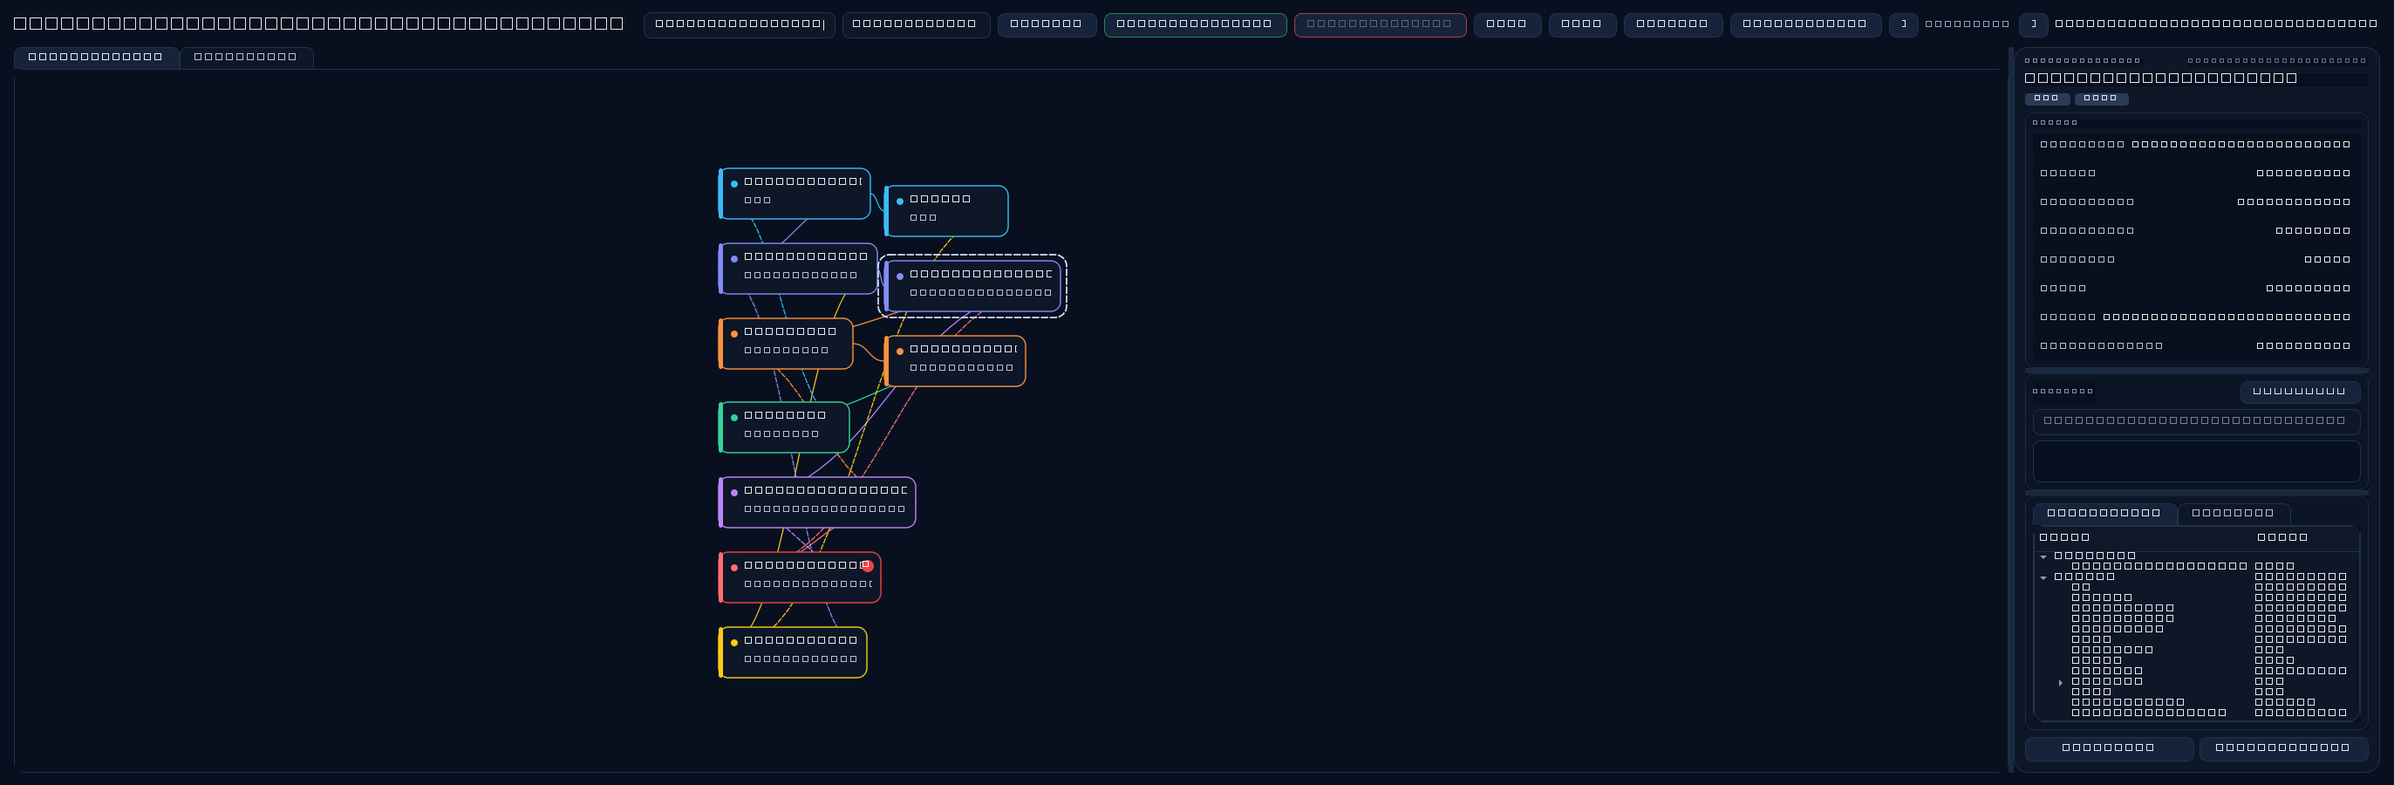
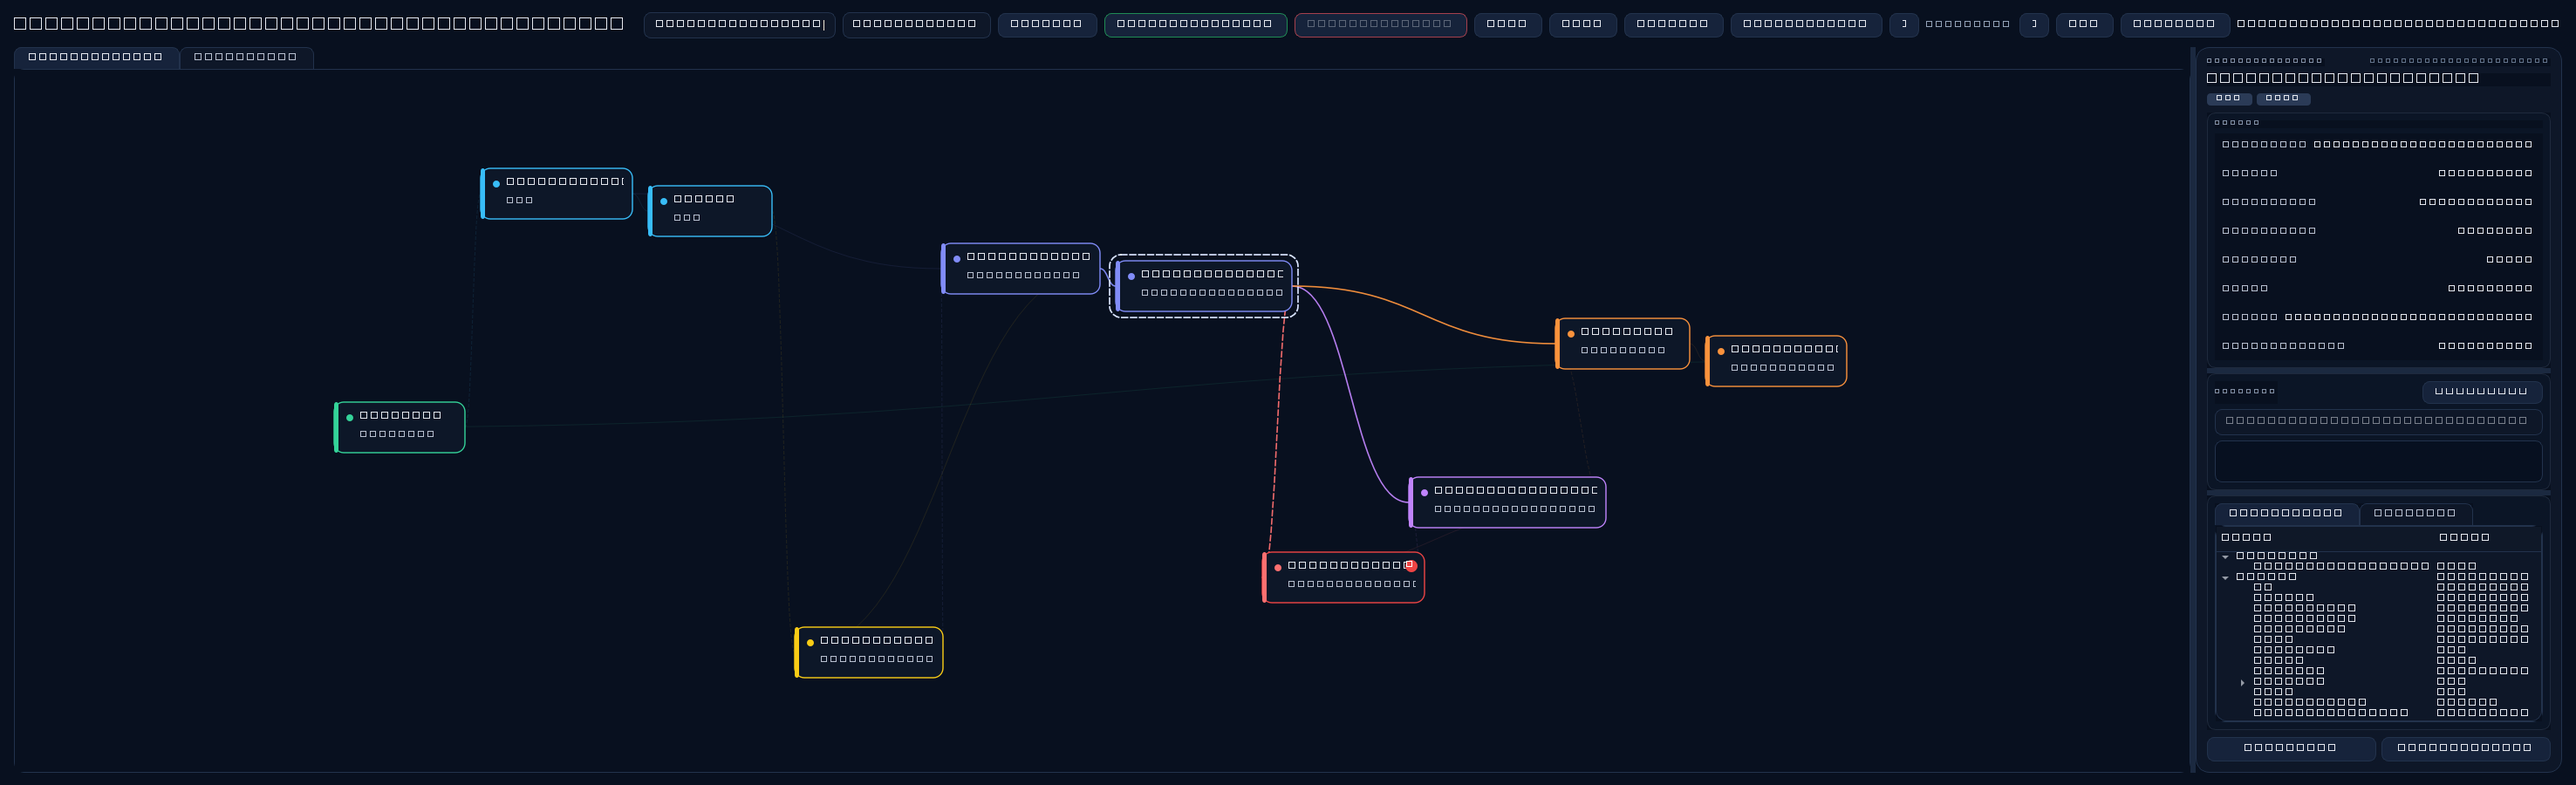
@ §2 verify: Fit + Collapse toolbar actions; regenerated visual artifacts
Toolbar gains Fit (zoom-to-fit all events via fit_to_events) and Collapse
(re-collapse expanded groups). Full suite 177 passed / 1 skipped; capture
harness regenerates the 4 states; implemented visual baselines pass (mockup-
fidelity checks remain open for the §3/§5 visual redesign).

@

diff --git a/src/ui/main_window.py b/src/ui/main_window.py
@@ -517,6 +517,18 @@ class MainWindow(QMainWindow):
         self.zoom_in_btn.clicked.connect(self._zoom_in)
         self.toolbar_layout.addWidget(self.zoom_in_btn)
 
+        self.fit_btn = QPushButton("Fit")
+        self.fit_btn.setObjectName("fit_btn")
+        self.fit_btn.setToolTip("Zoom to fit all events")
+        self.fit_btn.clicked.connect(self._fit_timeline)
+        self.toolbar_layout.addWidget(self.fit_btn)
+
+        self.collapse_btn = QPushButton("Collapse")
+        self.collapse_btn.setObjectName("collapse_btn")
+        self.collapse_btn.setToolTip("Re-collapse all expanded event groups")
+        self.collapse_btn.clicked.connect(self._collapse_timeline_groups)
+        self.toolbar_layout.addWidget(self.collapse_btn)
+
         self.toolbar_layout.addStretch(1)
 
         self.status_label = QLabel()
@@ -955,6 +967,12 @@ class MainWindow(QMainWindow):
 
     def _zoom_out(self) -> None:
         self.timeline_view.zoom_out()
+
+    def _fit_timeline(self) -> None:
+        self.timeline_view.fit_to_events()
+
+    def _collapse_timeline_groups(self) -> None:
+        self.timeline_view.collapse_all_groups()
 
     def _on_timeline_zoom_changed(self, percent: int) -> None:
         self._zoom_percent = percent

diff --git a/visual-checks/reports/visual_qa_report_20260602_183152.md b/visual-checks/reports/visual_qa_report_20260602_183152.md
@@ -1,0 +1,189 @@
+# Visual QA Report
+
+Generated: 2026-06-02T18:31:52
+
+Config: `Bridge_Tracer_polish\visual_diff_config.json`
+
+## Summary
+
+- ✅ Passed: 4
+- ❌ Failed: 4
+- ⚠ Skipped: 0
+
+## Results
+
+### ❌ bridge_tracer.event_detail_inspector
+
+Name: Event Detail Inspector
+
+Status: **FAIL**
+
+Reason: threshold exceeded
+
+Test image: `Bridge_Tracer_polish\visual-checks\current\bridge_tracer.event_detail_inspector.png`
+
+Reference image: `Bridge_Tracer_polish\assets\mockups\bridge_tracer\event_detail_inspector.png`
+
+Test viewport: `[0, 0, 1440, 900]`
+
+Reference viewport: `[0, 0, 1440, 900]`
+
+Diff: `Bridge_Tracer_polish\visual-checks\diffs\bridge_tracer.event_detail_inspector.diff.png`
+
+Mean diff: `12.59` / threshold `8.00`
+
+Changed ratio: `1.0000` / threshold `0.1200`
+
+### ❌ bridge_tracer.filter_recording_sidebar
+
+Name: Filter Recording Sidebar
+
+Status: **FAIL**
+
+Reason: threshold exceeded
+
+Test image: `Bridge_Tracer_polish\visual-checks\current\bridge_tracer.filter_recording_sidebar.png`
+
+Reference image: `Bridge_Tracer_polish\assets\mockups\bridge_tracer\filter_recording_sidebar.png`
+
+Test viewport: `[0, 0, 1440, 900]`
+
+Reference viewport: `[0, 0, 1440, 900]`
+
+Diff: `Bridge_Tracer_polish\visual-checks\diffs\bridge_tracer.filter_recording_sidebar.diff.png`
+
+Mean diff: `12.22` / threshold `8.00`
+
+Changed ratio: `1.0000` / threshold `0.1200`
+
+### ❌ bridge_tracer.main_desktop_timeline
+
+Name: Main Desktop Timeline
+
+Status: **FAIL**
+
+Reason: threshold exceeded
+
+Test image: `Bridge_Tracer_polish\visual-checks\current\bridge_tracer.main_desktop_timeline.png`
+
+Reference image: `Bridge_Tracer_polish\assets\mockups\bridge_tracer\main_desktop_timeline.png`
+
+Test viewport: `[0, 0, 1440, 900]`
+
+Reference viewport: `[0, 0, 1440, 900]`
+
+Diff: `Bridge_Tracer_polish\visual-checks\diffs\bridge_tracer.main_desktop_timeline.diff.png`
+
+Mean diff: `15.16` / threshold `8.00`
+
+Changed ratio: `1.0000` / threshold `0.1200`
+
+### ❌ bridge_tracer.timeline_filmstrip_focused
+
+Name: Timeline Filmstrip Focused
+
+Status: **FAIL**
+
+Reason: threshold exceeded
+
+Test image: `Bridge_Tracer_polish\visual-checks\current\bridge_tracer.timeline_filmstrip_focused.png`
+
+Reference image: `Bridge_Tracer_polish\assets\mockups\bridge_tracer\timeline_filmstrip_focused.png`
+
+Test viewport: `[0, 0, 1440, 900]`
+
+Reference viewport: `[0, 0, 1440, 900]`
+
+Diff: `Bridge_Tracer_polish\visual-checks\diffs\bridge_tracer.timeline_filmstrip_focused.diff.png`
+
+Mean diff: `12.72` / threshold `8.00`
+
+Changed ratio: `1.0000` / threshold `0.1200`
+
+### ✅ Bridge_Tracer.event_detail_inspector
+
+Name: Event Detail Inspector
+
+Status: **PASS**
+
+Reason: ok
+
+Test image: `Bridge_Tracer_polish\visual-checks\current\implemented_event_detail_inspector.png`
+
+Reference image: `Bridge_Tracer_polish\assets\mockups\bridge_tracer\event_detail_inspector.png`
+
+Test viewport: `[0, 0, 1440, 900]`
+
+Reference viewport: `[0, 0, 1440, 900]`
+
+Diff: `Bridge_Tracer_polish\visual-checks\diffs\implemented_event_detail_inspector.diff.png`
+
+Mean diff: `12.59` / threshold `20.00`
+
+Changed ratio: `1.0000` / threshold `1.0000`
+
+### ✅ Bridge_Tracer.filter_recording_sidebar
+
+Name: Filter Recording Sidebar
+
+Status: **PASS**
+
+Reason: ok
+
+Test image: `Bridge_Tracer_polish\visual-checks\current\implemented_filter_recording_sidebar.png`
+
+Reference image: `Bridge_Tracer_polish\assets\mockups\bridge_tracer\filter_recording_sidebar.png`
+
+Test viewport: `[0, 0, 1440, 900]`
+
+Reference viewport: `[0, 0, 1440, 900]`
+
+Diff: `Bridge_Tracer_polish\visual-checks\diffs\implemented_filter_recording_sidebar.diff.png`
+
+Mean diff: `12.22` / threshold `20.00`
+
+Changed ratio: `1.0000` / threshold `1.0000`
+
+### ✅ Bridge_Tracer.main_desktop_timeline
+
+Name: Main Desktop Timeline
+
+Status: **PASS**
+
+Reason: ok
+
+Test image: `Bridge_Tracer_polish\visual-checks\current\implemented_main_desktop_timeline.png`
+
+Reference image: `Bridge_Tracer_polish\assets\mockups\bridge_tracer\main_desktop_timeline.png`
+
+Test viewport: `[0, 0, 1440, 900]`
+
+Reference viewport: `[0, 0, 1440, 900]`
+
+Diff: `Bridge_Tracer_polish\visual-checks\diffs\implemented_main_desktop_timeline.diff.png`
+
+Mean diff: `15.16` / threshold `20.00`
+
+Changed ratio: `1.0000` / threshold `1.0000`
+
+### ✅ Bridge_Tracer.timeline_filmstrip_focused
+
+Name: Timeline Filmstrip Focused
+
+Status: **PASS**
+
+Reason: ok
+
+Test image: `Bridge_Tracer_polish\visual-checks\current\implemented_timeline_filmstrip.png`
+
+Reference image: `Bridge_Tracer_polish\assets\mockups\bridge_tracer\timeline_filmstrip_focused.png`
+
+Test viewport: `[0, 0, 1440, 900]`
+
+Reference viewport: `[0, 0, 1440, 900]`
+
+Diff: `Bridge_Tracer_polish\visual-checks\diffs\implemented_timeline_filmstrip.diff.png`
+
+Mean diff: `12.72` / threshold `20.00`
+
+Changed ratio: `1.0000` / threshold `1.0000`
